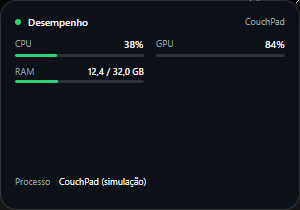
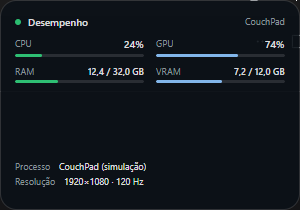
docs: record 1.0.15 installed validation

diff --git a/HANDOFF.md b/HANDOFF.md
@@ -1,6 +1,6 @@
 # CouchPad Windows — Handoff e Bootstrap
 
-**1.0.15 (candidato, 17/11/2026):** corrige as barras de GPU/VRAM do HUD. Elas referenciavam `CouchPad.Accent2`, que não existia em `Themes/Tokens.axaml`, então a barra não era desenhada. Agora usam `CouchPad.Info`, com largura mínima de 2 px para valores baixos. Teste de regressão garante que todo `{DynamicResource CouchPad.*}` do XAML exista nos tokens. Build Debug/Release 0/0, **310 testes** e smoke; HUD real confirmado com GPU em 1–8%. Instalação e publicação pendentes.
[1 lines of base64/hex data omitted]
 
[1 lines of base64/hex data omitted]
 

diff --git a/docs/screenshots/README.md b/docs/screenshots/README.md
@@ -1,8 +1,8 @@
 # Screenshots oficiais — P7a
 
 - Data: 2026-11-16
-- Estado: **capturas atualizadas após a 1.0.14**; aceite final pendente
-- Versão exibida: `1.0.14`
+- Estado: **capturas atualizadas após a 1.0.15**; aceite final pendente
+- Versão exibida: `1.0.15`
 - Simulação: display/áudio sem escrita real; seletores vazios de propósito
 - Leitor de tela: validação manual ainda pendente (ver checklist)
 
@@ -32,8 +32,7 @@
 - Em 1020×780 o conteúdo usa a barra de rolagem; as capturas mostram o topo da
   tela. A ordem de foco foi validada via UIAutomation em 3/2/1 colunas.
 - A validação com Narrator/NVDA não foi executada nesta máquina.
-- As capturas usam o build Debug de `1.0.14`; o instalador local foi validado,
-  mas a publicação ainda está pendente.
+- As capturas usam o executável instalado de `1.0.15`; a publicação ainda está pendente.
 
 ## Concept de redesign (não implementado)
 
@@ -46,9 +45,10 @@
   Aprovado para implementação em 2026-11-17; implementado na 1.0.14. Plano em
   `docs/roadmap.md`.
 
-## HUD de desempenho — implementação 1.0.14
+## HUD de desempenho — implementação 1.0.14/1.0.15
 
-- `hud-fase1-overlay.png`: HUD real em simulação, com CPU, GPU, RAM e processo.
+- `hud-fase1-overlay.png`: HUD instalado em simulação, com CPU, GPU, RAM, VRAM,
+  processo e resolução; barras de GPU/VRAM corrigidas na 1.0.15.
 - `hud-fase1-settings.png`: modal de configuração com métricas, atalho,
   aparência e prévia.
 - `couchpad-performance-hud-concept.png` e `.html`: concept original aprovado;

diff --git a/docs/validation-queue.md b/docs/validation-queue.md
@@ -153,8 +153,8 @@
 ### 12. Correção das barras de GPU/VRAM do HUD (1.0.15)
 
 - **Dono:** OpenCode.
-- **Status:** corrigido; instalação e validação no executável instalado
-  pendentes.
+- **Status:** corrigido, instalado e validado no executável 1.0.15; publicação
+  pendente.
 - **Causa:** o XAML do HUD e do modal usava `{DynamicResource CouchPad.Accent2}`,
   token que não existe em `Themes/Tokens.axaml`. O recurso não resolvia e a
   barra ficava invisível.
@@ -163,8 +163,12 @@
 - **Evidência:** build Debug/Release 0/0, **310 testes**, smoke; captura do HUD
   real mostrando CPU 8%, GPU 1% e barras desenhadas. Novo teste
   `Dynamic_theme_resources_used_in_xaml_exist_in_tokens` cobre a regressão.
-- **Pendente:** instalar 1.0.15, confirmar as barras no executável instalado e
-  publicar. Chord físico segue pendente (item 11).
+- **Instalação:** executável 1.0.15 validado; HUD real com GPU 0% e modo
+  simulação com GPU 74%/VRAM 7,2 GB exibindo as barras azuis. Tasks
+  preservadas, journal ausente, `settings.json` restaurado por hash.
+  Instalador: 84.333.243 bytes, SHA-256
[1 lines of base64/hex data omitted]
+- **Pendente:** publicar. Chord físico segue pendente (item 11).
 
 ## Próxima ação
 

diff --git a/CHANGELOG.md b/CHANGELOG.md
@@ -6,6 +6,7 @@
 - Barras de percentual e proporção ganham largura mínima de 2 px, para que valores baixos (1%) continuem visíveis.
 - Novo teste de regressão: todo `{DynamicResource CouchPad.*}` usado no XAML precisa existir em `Themes/Tokens.axaml`.
 - Build Debug/Release 0/0, **310 testes** e smoke. Correção verificada no HUD real com GPU em 1–8%.
[1 lines of base64/hex data omitted]
 
 ## 1.0.14 (candidato)
 
